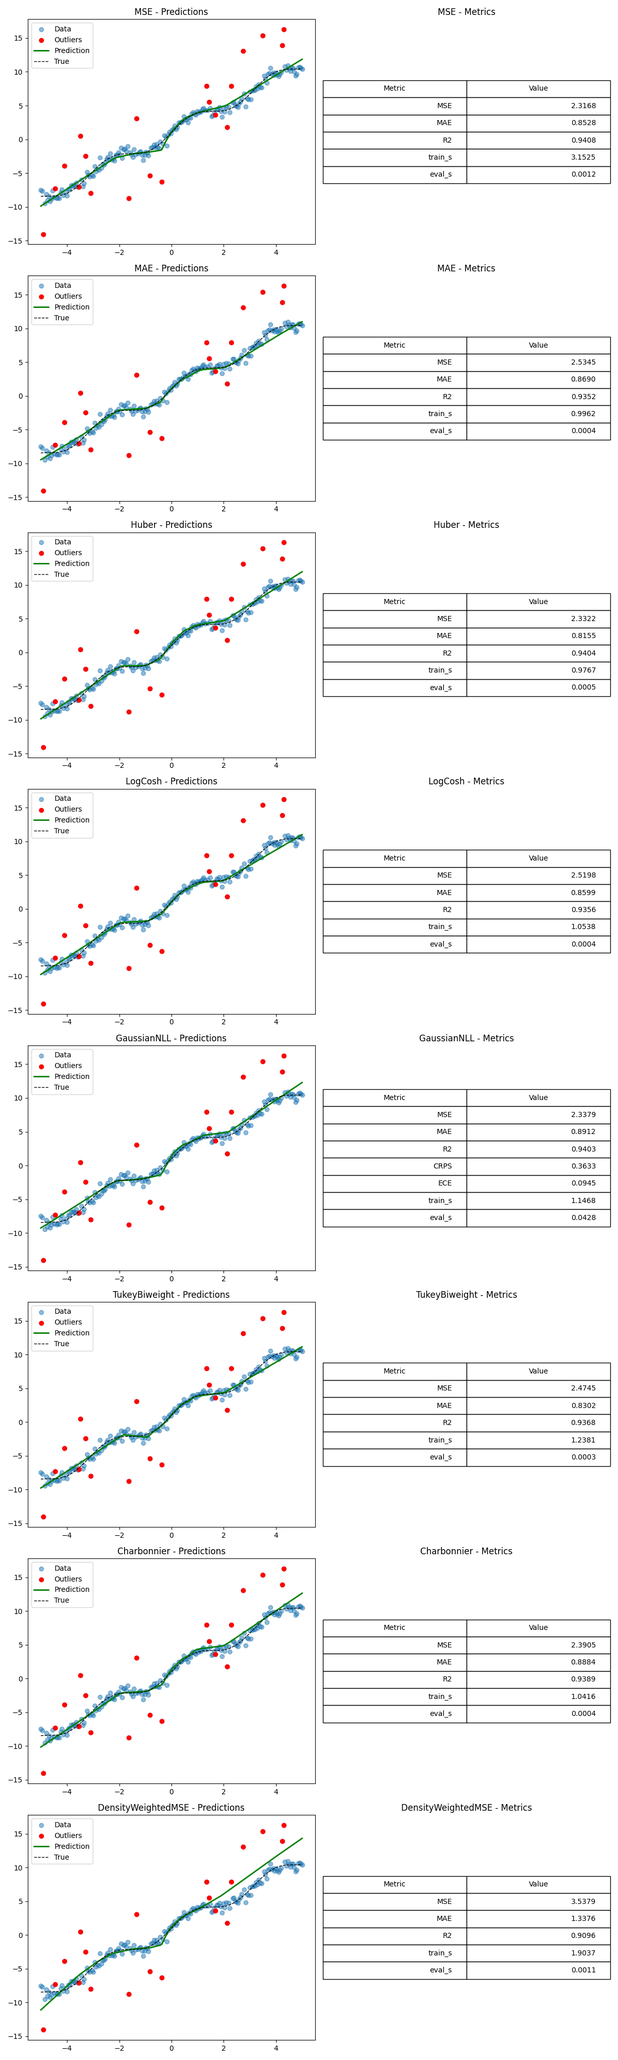
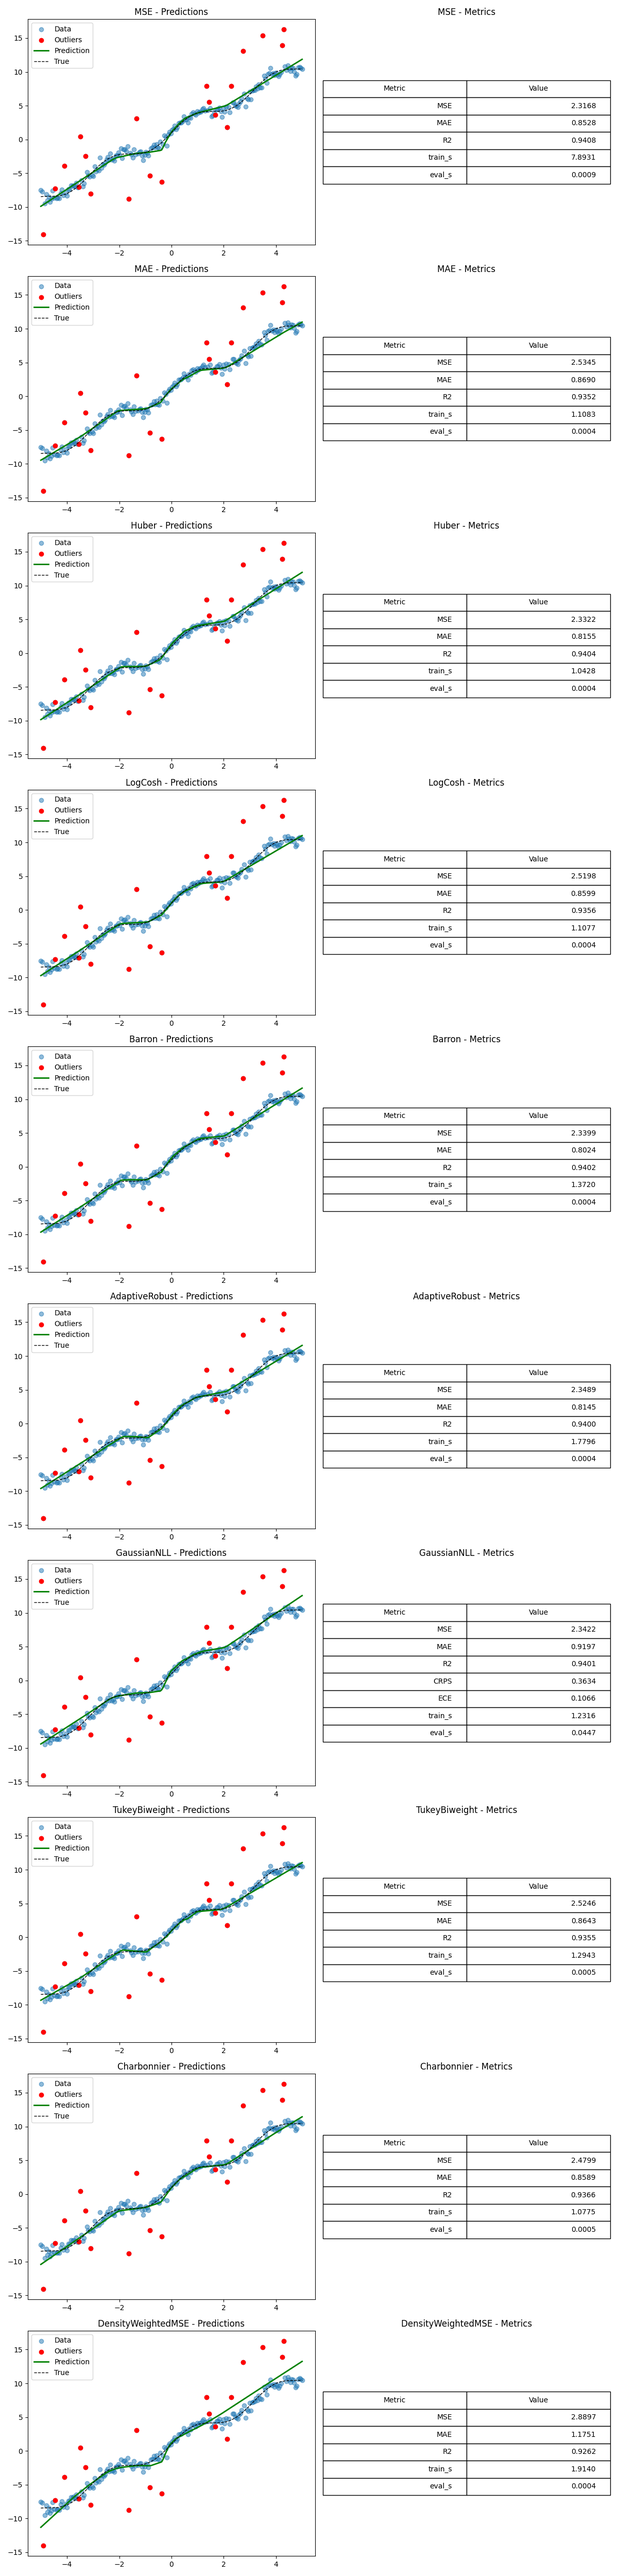
Reword "Fix" to "Set" in RNG sampling comments in comprehensive_loss_comparison.py
Changed "Fix sampling RNG" to "Set sampling RNG" to prevent TODO linters/scanners from mistakenly treating these explanatory comments as actual TODOs in `examples/comprehensive_loss_comparison.py`.

diff --git a/examples/comprehensive_loss_comparison.py b/examples/comprehensive_loss_comparison.py
@@ -146,8 +146,8 @@ def main():
                     "PrevalenceAdjustedCP",
                 ]:
                     with torch.no_grad():
-                        # Fix sampling RNG per method for stable comparison metrics.
-                        torch.manual_seed(2025 + i)  # Fix RNG per method
+                        # Set sampling RNG per method for stable comparison metrics.
+                        torch.manual_seed(2025 + i)  # Set RNG per method
                         samples = output.sample(1000)
                         pred_mean = samples.mean(dim=0)
                     y_pred_local = pred_mean
@@ -156,7 +156,7 @@ def main():
                 elif name == "GaussianNLL":
                     mean, log_var = torch.chunk(raw_pred, 2, dim=-1)
                     var = torch.exp(log_var)
-                    # Fix sampling RNG per method for stable comparison metrics.
+                    # Set sampling RNG per method for stable comparison metrics.
                     torch.manual_seed(2025 + i)
                     samples = torch.distributions.Normal(mean, var.sqrt()).sample((100,))
                     y_pred_local = mean
